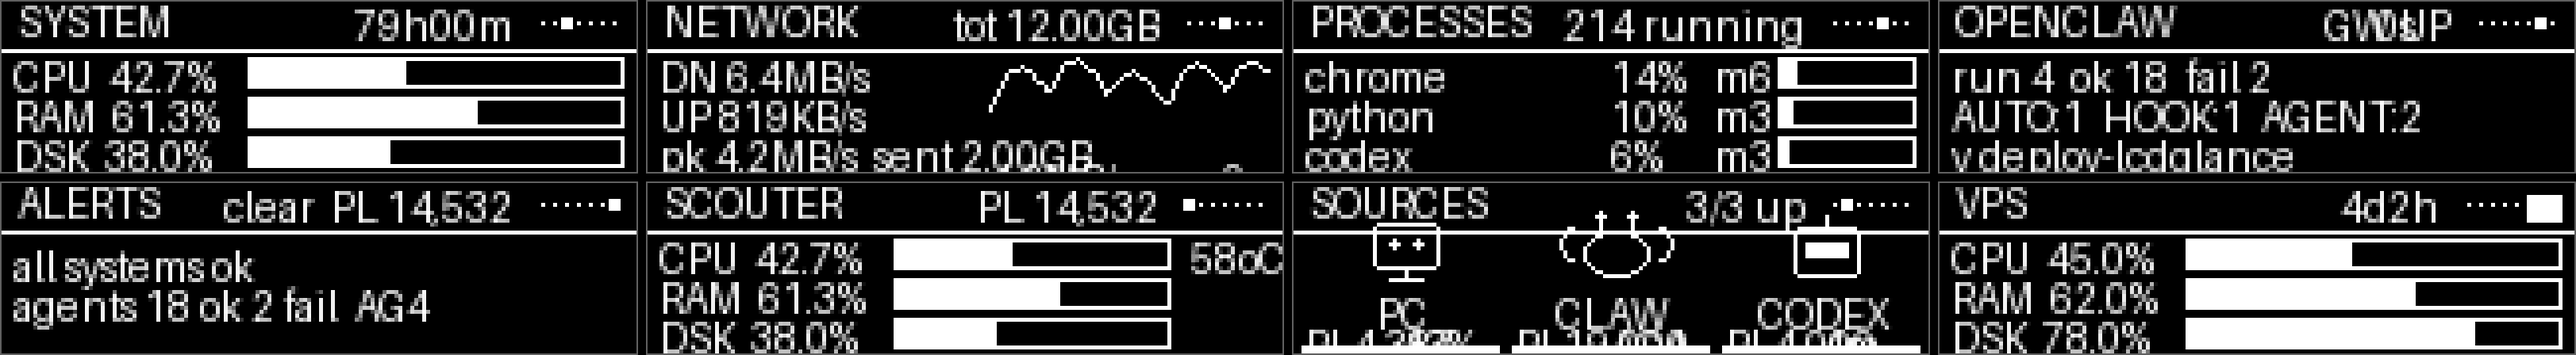
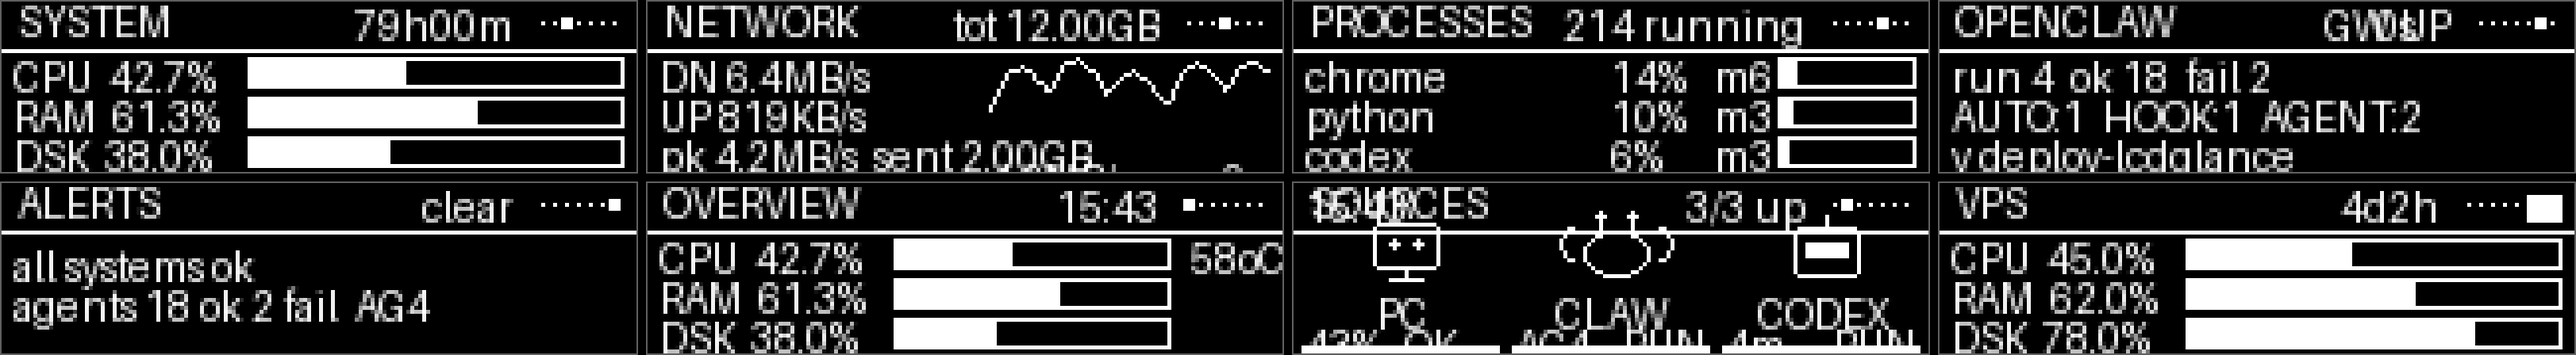
feat: live clock, remove DBZ power-level (PL) readout
- Add real-time HH:MM clock to Mascot & Sources headers
- Remove all PL/DBZ/scouter terminology -> neutral 'overview'
- Rename Status page SCOUTER -> OVERVIEW with clock
- Sources page: metric + RUN/OK/OFF status word replaces PL numbers
- Delete dead load_index() function
- Regenerate screenshots + README to match

diff --git a/lcdglance.py b/lcdglance.py
@@ -10,19 +10,19 @@ LCD is rendered as real graphics with Pillow (not just text):
 
 Pages (B1/B2):
   1 Mascot    active mascot + detailed source stats (B3 cycles source)
-  2 Sources   all sources with power levels + status
+  2 Sources   all sources with status
   3 System    CPU/RAM/disk bars + temp + top process
   4 Network   up/down speed + sparkline
   5 Procs     top processes by CPU
   6 OpenClaw  agent types + tasks + gateway status
-  7 Alerts    scouter-style PL + system alerts
+  7 Alerts    system + agent alert feed
   8 VPS       remote server SSH stats (if configured)
   * Download  appears automatically while downloading
 
 Buttons:
   B1/B2  Previous/Next page
   B3     On mascot page: cycle displayed source (PC/CLAW/CODEX)
-         On other pages: full scouter overlay (8 s)
+         On other pages: full overview overlay (8 s)
   B4     Flash + toggle manual RGB alert
 
 RGB (whole-keyboard, LGS 8.57 LED SDK):
@@ -1198,6 +1198,19 @@ class Gfx:
             else:
                 d.point((cx + 1, 5), fill=255)
 
+    @staticmethod
+    def clock(d, xy=(46, 0), seconds=False):
+        """Draw the current time, top-left corner area.
+
+        Cheap: `time.strftime` is a single libc call. Renders HH:MM (or HH:MM:SS
+        when seconds=True). The minute changes once per 60 s, so even the slow
+        STATIC_INTERVAL pages (0.8 s) stay accurate to the minute.
+        """
+        fmt = "%H:%M:%S" if seconds else "%H:%M"
+        t = time.strftime(fmt)
+        d.text(xy, t, font=ImageFont.load_default(), fill=255)
+        return t
+
     def frame(self, d, title, right="", dots=None):
         """Shared page chrome: 11 px title, right context, 1 px rule, page balls.
 
@@ -1351,24 +1364,6 @@ def mood_for(st, oc, dl, src):
     if cpu > 90 or mem > 90 or st.get("disk", 0) > 95:
         return "worried"
     return "idle"
-
-
-def load_index(st, oc, dl):
-    """A single 'load index' derived from real machine and agent activity.
-
-    Purely presentational: it folds CPU/RAM/disk/network plus running agents into
-    one number, so a busy machine visibly reads higher.
-    """
-    s = oc.snapshot()
-    pl = 1000.0
-    pl += (st.get("cpu", 0) or 0) * 42
-    pl += (st.get("mem", 0) or 0) * 26
-    pl += (st.get("disk", 0) or 0) * 6
-    pl += min((st.get("net_dn", 0) or 0) * 3, 2000)
-    pl += sum((s.get("active_agents") or {}).values()) * 4500
-    if dl.active:
-        pl += min((dl.snapshot().get("speed") or 0) * 2500, 6000)
-    return int(pl)
 
 
 def is_busy(st, oc, dl, src):
@@ -1571,7 +1566,6 @@ class MascotPage(Page):
       PC:     CPU%, RAM%, disk, temp, uptime
       CLAW:   running/ok/fail agents, gateway status, last task
       CODEX:  activity status, last session age
-    A power-level (PL) readout gives an at-a-glance activity metric.
     B3 tap on this page cycles the displayed source; the auto-selected source
     is still used for RGB and override behaviour.
     """
@@ -1594,12 +1588,13 @@ class MascotPage(Page):
 
         gfx.page_dots(d)
 
-        # Header: source name + PL (power level)
-        pl = ctx.get("load", 0)
+        # Live clock (top-left, above the mascot column)
+        gfx.clock(d, (2, 0))
+
+        # Header: source name + live clock on the right
         gfx.text(d, (63, 0), src["label"])
-        pl_str = f"PL {pl:,}"
-        pw = d.textlength(pl_str, font=gfx.font_small)
-        gfx.text(d, (155 - int(pw), 0), pl_str, small=True)
+        cw = d.textlength("00:00", font=gfx.font_small)
+        gfx.text(d, (156 - int(cw), 0), time.strftime("%H:%M"), small=True)
 
         # Mood indicator: small expression label above ground line
         mood_labels = {"idle": "---", "watch": "WATCH", "focus": "FOCUS",
@@ -1721,7 +1716,7 @@ class MascotPage(Page):
 
 
 class SourcesPage(Page):
-    """Source overview: mini mascots, PL, detail, and activity bars."""
+    """Source overview: mini mascots, metric, status, and activity bars."""
 
     name = "Sources"
 
@@ -1729,34 +1724,34 @@ class SourcesPage(Page):
         srcs = ctx["sources"]
         n_up = sum(1 for s in srcs if s["online"])
         gfx.frame(d, "SOURCES", f"{n_up}/{len(srcs)} up")
+        gfx.clock(d, (3, 0))
         mascot = ctx["mascot"]
-        # Calculate per-source power levels
         s = oc.snapshot()
-        pl_pc = int(1000 + st.get("cpu", 0) * 42 + st.get("mem", 0) * 26)
-        pl_claw = int(1000 + sum((s.get("active_agents") or {}).values()) * 4500)
-        pl_codex = int(1000 + 3000) if s.get("codex_active") else int(1000)
-        pls = {"pc": pl_pc, "openclaw": pl_claw, "codex": pl_codex}
 
         for i, src in enumerate(srcs):
             x0 = 2 + i * 53
             cx = x0 + 26
             # Mini mascot
             mascot.draw_mini(d, src["key"], cx, 17, src["busy"])
-            # Name + power level on same line
+            # Name centered, metric + status below
             w = d.textlength(src["label"], font=gfx.font_small)
             gfx.text(d, (int(cx - w / 2), 27), src["label"], small=True)
-            # Power level
-            pl_val = pls.get(src["key"], 1000)
-            gfx.text(d, (x0 + 1, 35), f"PL{pl_val:,}", small=True)
-            # Detail line: one key metric per source
+            # Left metric per source (CPU%, agents, codex age)
             if src["key"] == "pc":
-                gfx.text(d, (x0 + 25, 35), f"{st.get('cpu', 0):.0f}%", small=True)
+                gfx.text(d, (x0 + 1, 35), f"{st.get('cpu', 0):.0f}%", small=True)
             elif src["key"] == "openclaw":
                 n_ag = sum((s.get("active_agents") or {}).values())
-                gfx.text(d, (x0 + 25, 35), f"AG{n_ag}", small=True)
+                gfx.text(d, (x0 + 1, 35), f"AG{n_ag}", small=True)
             else:
                 age = age_str(s.get("codex_mtime", 0)) if s.get("codex_seen") else "--"
-                gfx.text(d, (x0 + 25, 35), age, small=True)
+                gfx.text(d, (x0 + 1, 35), age, small=True)
+            # Status word on the right (RUN/OK/OFF)
+            if src["busy"]:
+                gfx.text(d, (x0 + 28, 35), "RUN", small=True)
+            elif src["online"]:
+                gfx.text(d, (x0 + 26, 35), "OK", small=True)
+            else:
+                gfx.text(d, (x0 + 25, 35), "OFF", small=True)
             # Activity bar at bottom
             bar_y = 42
             bar_w = 49
@@ -1916,7 +1911,7 @@ class OpenClawPage(Page):
 
 
 class AlertsPage(Page):
-    """Scouter-style alerts: power level readout + system and agent alerts."""
+    """Alert feed: system and agent alerts with severity icons."""
 
     name = "Alerts"
 
@@ -1933,19 +1928,14 @@ class AlertsPage(Page):
         for ts, kind, text in s["alerts"][-6:]:
             items.append((ts, kind, text))
 
-        # Power level in header right
-        pl = ctx.get("load", 0)
-        pl_label = f"PL {pl:,}"
-
         if not items:
-            gfx.frame(d, "ALERTS", f"clear  {pl_label}")
+            gfx.frame(d, "ALERTS", "clear")
             gfx.text(d, (3, 15), "all systems ok", small=True)
             n_agents = sum((s.get("active_agents") or {}).values())
             gfx.text(d, (3, 25), f"agents {s['ok']} ok {s['fail']} fail  AG{n_agents}", small=True)
             return
 
-        # Scouter readout style: PL prominently displayed
-        gfx.frame(d, f"ALERTS ({len(items)})", pl_label)
+        gfx.frame(d, f"ALERTS ({len(items)})", time.strftime("%H:%M"))
         y = 13
         for ts, kind, text in items[-3:]:
             _alert_icon(d, 2, y + 1, kind)
@@ -1954,16 +1944,16 @@ class AlertsPage(Page):
 
 
 class StatusPage(Page):
-    """B3 scouter: power level + CPU temp + gateway + active agents.
+    """B3 overview: CPU/RAM/disk, temp/freq, gateway, agents, Codex, network.
 
-    Shows for 5 seconds then returns to the current page (B3 timeout).
+    Shows for 8 seconds then returns to the current page.
     """
 
     name = "Status"
 
     def render(self, gfx, d, st, oc, dl, ctx):
         s = oc.snapshot()
-        gfx.frame(d, "SCOUTER", f"PL {ctx.get('load', 0):,}")
+        gfx.frame(d, "OVERVIEW", time.strftime("%H:%M"))
         y = 13
         # CPU / RAM / DSK bars
         for label, pct in (("CPU", st.get("cpu", 0)),
@@ -2114,7 +2104,7 @@ class LCDGlance:
 
     # ---- lifecycle
     def start(self):
-        print("LCDGlance v8.0 — interactive scouter + rich dashboard", flush=True)
+        print("LCDGlance v8.0 — live clock + rich dashboard", flush=True)
         print("=" * 60, flush=True)
 
         if not HAS_PIL:
@@ -2138,7 +2128,7 @@ class LCDGlance:
 
         self.running = True
         print(f"Pages: {[p.name for p in self.pages]}", flush=True)
-        print("B1/B2 pages  B3 cycle/scouter  B4 flash/alert", flush=True)
+        print("B1/B2 pages  B3 cycle/overview  B4 flash/alert", flush=True)
         if self.vps.enabled:
             print(f"VPS: {self.vps.user}@{self.vps.host} (poll {self.vps.poll_interval}s)", flush=True)
         else:
@@ -2263,7 +2253,6 @@ class LCDGlance:
                 active = pick_active(sources)
                 # computed every tick: the RGB engine needs it even on frames the
                 # render gate skips, and it is cheap (both snapshots are cached)
-                load = load_index(st, self.oc, self.dl)
                 busy = is_busy(st, self.oc, self.dl, active)
                 if self.rgb:
                     self.rgb.active_source_key = active["key"]
@@ -2303,7 +2292,7 @@ class LCDGlance:
                                "active_source": active,
                                "display_source": display,
                                "mood": mood_for(st, self.oc, self.dl, active),
-                               "load": load, "busy": busy,
+                               "busy": busy,
                                "vps_snapshot": self.vps.snapshot()}
                         img, d = self.gfx.canvas()
                         page.render(self.gfx, d, st, self.oc, self.dl, ctx)
@@ -2331,8 +2320,8 @@ class LCDGlance:
         """Button matrix with tap vs long-press (hold) semantics.
 
         B1: prev page          B2: next page          (hold B1/B2 = fast-scroll)
-        B3 tap:  cycle source (mascot page) / scouter overlay (other pages)
-        B3 hold: scouter overlay + refresh (always)
+        B3 tap:  cycle source (mascot page) / overview overlay (other pages)
+        B3 hold: overview overlay + refresh (always)
         B4 tap:  white flash + toggle manual RGB alert
         B4 hold: toggle night-dim (dim RGB lighting)
         """
@@ -2381,7 +2370,7 @@ class LCDGlance:
                 except (ValueError, AttributeError):
                     idx = 0
                 self._display_source = src_keys[idx % len(src_keys)]
-            else:                # other pages -> scouter overlay
+            else:                # other pages -> overview overlay
                 threading.Thread(target=self._safe_poll, daemon=True).start()
                 self.status_until = time.time() + 8.0
         elif btn == BTN_4:
@@ -2400,7 +2389,7 @@ class LCDGlance:
             # hold next = jump to last page
             self.page = len(self.pages) - 1
         elif btn == BTN_3:
-            # hold = scouter + forced refresh (always)
+            # hold = overview + forced refresh (always)
             threading.Thread(target=self._safe_poll, daemon=True).start()
             self.status_until = time.time() + 10.0
         elif btn == BTN_4:

diff --git a/README.md b/README.md
@@ -4,7 +4,7 @@
 160×43** y la **iluminación RGB** del teclado Logitech **G510**, sobre Logitech Gaming
 Software (LGS 8.57).
 
-> Una pantalla retro sci-fi con nivel de poder (PL), scouter interactivo y tres
+> Una pantalla retro sci-fi con reloj en tiempo real, vista general (overview) y tres
 > mascotas pixel-art dibujadas a mano — una por cada fuente que vigila.
 
 ![Mascotas: PC, CLAW, CODEX](docs/screens/hero-mascots.png)
@@ -19,11 +19,10 @@ LCDGlance convierte el LCD del G510 (monocromo, 1-bit) en un panel de control vi
 
 - **Tres fuentes vigiladas** — tu PC, el gateway OpenClaw y Codex — cada una con su
   propia mascota animada y su color RGB.
-- **Nivel de poder (PL)** estilo *scouter* que sintetiza CPU, RAM, agentes activos y
-  descargas en un único número.
+- **Reloj en tiempo real** en la cabecera de las páginas principales.
 - **Auto-foco**: si un agente termina o empieza una descarga, el panel salta solo a la
   escena relevante y vuelve a tu página.
-- **7–8 páginas** de datos (ver abajo) + overlay de **Download** y **Scouter**.
+- **7–8 páginas** de datos (ver abajo) + overlays de **Download** y **Overview**.
 
 ---
 
@@ -56,15 +55,15 @@ color tiñe el teclado RGB.
 | # | Página | Contenido | Captura |
 |---|---|---|---|
 | 1 | **Mascot** | mascota + panel detallado por fuente (B3 cicla fuente) | ![Mascot](docs/screens/mascot-claw.png) |
-| 2 | **Sources** | PC / CLAW / CODEX con PL, mini-mascotas y barras de actividad | ![Sources](docs/screens/sources.png) |
+| 2 | **Sources** | PC / CLAW / CODEX con métricas, mini-mascotas y barras de actividad | ![Sources](docs/screens/sources.png) |
 | 3 | **System** | CPU / RAM / disco + temperatura + frecuencia + memoria + top proceso | ![System](docs/screens/system.png) |
 | 4 | **Network** | subida/bajada + pico + sparkline con escala | ![Network](docs/screens/network.png) |
 | 5 | **Procs** | procesos top por CPU y memoria | ![Procs](docs/screens/procs.png) |
 | 6 | **OpenClaw** | tipos de agentes + gateway + ratio ok/fail + último trabajo | ![OpenClaw](docs/screens/openclaw.png) |
-| 7 | **Alerts** | scouter con PL + alertas de sistema y agentes | ![Alerts](docs/screens/alerts-clear.png) |
+| 7 | **Alerts** | alertas de sistema y agentes con iconos de severidad | ![Alerts](docs/screens/alerts-clear.png) |
 | 8 | **VPS** | servidor remoto SSH (si se configura `vps_config.json`) | ![VPS](docs/screens/vps.png) |
 | ★ | **Download** | aparece **solo** con una descarga real | ![Download](docs/screens/download.png) |
-| ◈ | **Scouter** | overlay completo (B3) | ![Scouter](docs/screens/scouter.png) |
+| ◈ | **Overview** | vista general completa (B3) | ![Overview](docs/screens/overview.png) |
 
 ### Alertas activas
 
@@ -73,13 +72,13 @@ severidad:
 
 ![Alertas activas](docs/screens/alerts-active.png)
 
-### Scouter (B3)
+### Overview (B3)
 
-El **scouter** es un overlay a pantalla completa con lectura tipo Dragon Ball:
-nivel de poder (PL), barras CPU/RAM/disco, temperatura, frecuencia, gateway, agentes
-activos, Codex y velocidad de red.
+El **overview** es un overlay a pantalla completa con lectura de sistema:
+barras CPU/RAM/disco, temperatura, frecuencia, gateway, agentes activos, Codex y
+velocidad de red.
 
-![Scouter](docs/screens/scouter.png)
+![Overview](docs/screens/overview.png)
 
 ---
 
@@ -91,7 +90,7 @@ Toque corto vs. **mantener pulsado** (~0,6 s) — cada botón tiene dos funcione
 |---|---|---|
 | **B1** | Página anterior | Saltar a la 1ª página |
 | **B2** | Página siguiente | Saltar a la última página |
-| **B3** | Ciclar fuente (en Mascot) · scouter 8 s (otras páginas) | Scouter + refresco forzado de OpenClaw (10 s) |
+| **B3** | Ciclar fuente (en Mascot) · overview 8 s (otras páginas) | Overview + refresco forzado de OpenClaw (10 s) |
 | **B4** | Flash blanco + toggle alerta RGB | Toggle atenuación nocturna RGB |
 
 **Auto-foco** — sin tocar nada:
@@ -252,5 +251,5 @@ asíncrono y **no bloquea** el bucle principal.
 
 ## Licencia
 
-Código y arte propios. Las mascotas y el estilo scouter son un homenaje retro; úsalos
+Código y arte propios. Las mascotas y el estilo overview son un homenaje retro; úsalos
 como quieras en tus despliegues.
